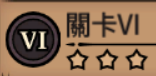
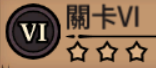
fix(nav): optimize sub-stage boss skull validation and trim six_stage template
- Refactor NavigationHandler._validate_boss_skull to log at DEBUG level with conf_first and conf_six, removing coordinate prints.

- Add _save_boss_skull_debug_artifact to annotate boss_skull and sub-stage boundary boxes on debug image under debug mode only.

- Trim top border from templates/stages/six_stage.png to eliminate drawer shadow interference, raising bottom-page match confidence from 0.79 to 0.97.

- Add unit tests in test_behavior_navigation covering debug logging and artifact persistence.

diff --git a/states/handlers/navigation.py b/states/handlers/navigation.py
@@ -76,11 +76,73 @@ class NavigationHandler(BaseStateHandler):
         """Resolve the active route before falling back to Tier 4 policy."""
         return config.get("sub_stage") or config.get("tier4_sub_stage")
 
+    @classmethod
+    def _save_boss_skull_debug_artifact(
+        cls,
+        screen_img,
+        pos: tuple[int, int] | None,
+        pos_first: tuple[int, int] | None,
+        pos_six: tuple[int, int] | None,
+        conf_first: float,
+        conf_six: float,
+        is_top: bool,
+        is_bottom: bool,
+        sub_stage_type: str,
+        accepted: bool,
+    ) -> None:
+        """在 debug 模式下繪製骷髏頭及頁面邊界標記並儲存診斷圖片。"""
+        if screen_img is None or getattr(screen_img, "size", 0) == 0:
+            return
+        try:
+            import cv2
+            import numpy as np
+            from utils.debug_artifacts import write_debug_image
+
+            if not isinstance(screen_img, np.ndarray):
+                return
+
+            canvas = screen_img.copy()
+            box_half = 30
+
+            # 1. 繪製 boss_skull 框框與語意
+            if pos:
+                bx, by = pos
+                color_skull = (0, 255, 0) if accepted else (0, 0, 255)
+                cv2.rectangle(canvas, (bx - box_half, by - box_half), (bx + box_half, by + box_half), color_skull, 2)
+                tag = f"[boss_skull] {'ACCEPTED' if accepted else 'REJECTED'}"
+                cv2.putText(canvas, tag, (bx - box_half, max(20, by - box_half - 6)), cv2.FONT_HERSHEY_SIMPLEX, 0.5, color_skull, 2)
+
+            # 2. 繪製 first_stage 框框與語意 (若有偵測到)
+            if pos_first:
+                fx, fy = pos_first
+                color_first = (255, 255, 0)
+                cv2.rectangle(canvas, (fx - box_half, fy - box_half), (fx + box_half, fy + box_half), color_first, 2)
+                cv2.putText(canvas, f"[first_stage] conf={conf_first:.2f}", (fx - box_half, max(20, fy - box_half - 6)), cv2.FONT_HERSHEY_SIMPLEX, 0.5, color_first, 2)
+
+            # 3. 繪製 six_stage 框框與語意 (若有偵測到)
+            if pos_six:
+                sx, sy = pos_six
+                color_six = (255, 0, 255)
+                cv2.rectangle(canvas, (sx - box_half, sy - box_half), (sx + box_half, sy + box_half), color_six, 2)
+                cv2.putText(canvas, f"[six_stage] conf={conf_six:.2f}", (sx - box_half, max(20, sy - box_half - 6)), cv2.FONT_HERSHEY_SIMPLEX, 0.5, color_six, 2)
+
+            # 4. 頂部狀態列橫幅
+            h, w = canvas.shape[:2]
+            cv2.rectangle(canvas, (0, 0), (w, 36), (30, 30, 30), -1)
+            banner = f"Target: {sub_stage_type} | conf_first: {conf_first:.4f}, conf_six: {conf_six:.4f} | top: {is_top}, bottom: {is_bottom} | {'PASS' if accepted else 'REJECT'}"
+            status_color = (0, 255, 0) if accepted else (0, 0, 255)
+            cv2.putText(canvas, banner, (15, 24), cv2.FONT_HERSHEY_SIMPLEX, 0.55, status_color, 2)
+
+            write_debug_image("debug_boss_skull_validation.png", canvas)
+        except Exception as exc:
+            logging.debug(f"[DebugArtifacts] Failed to write boss skull debug artifact: {exc}")
+
     def _validate_boss_skull(
         self,
         pos: tuple[int, int] | None,
         rect: dict,
         match_current_frame,
+        screen_img=None,
     ) -> tuple[int, int] | None:
         """
         驗證通用骷髏頭 (boss_skull) 是否符合當前子關卡目標 (middle vs final) 所在的頁面邊界。
@@ -95,26 +157,51 @@ class NavigationHandler(BaseStateHandler):
             return pos
 
         thresh_boundary = self.SUB_STAGE_BOUNDARY_THRESHOLD
-        pos_six, _ = match_current_frame("stages/six_stage.png", threshold=thresh_boundary) if os.path.exists(os.path.join("templates", "stages/six_stage.png")) else (None, 0.0)
-        pos_first, _ = match_current_frame("stages/first_stage.png", threshold=thresh_boundary) if os.path.exists(os.path.join("templates", "stages/first_stage.png")) else (None, 0.0)
+        pos_six, conf_six = match_current_frame("stages/six_stage.png", threshold=thresh_boundary) if os.path.exists(os.path.join("templates", "stages/six_stage.png")) else (None, 0.0)
+        pos_first, conf_first = match_current_frame("stages/first_stage.png", threshold=thresh_boundary) if os.path.exists(os.path.join("templates", "stages/first_stage.png")) else (None, 0.0)
 
         is_top_page = self._is_top_sub_stage_row(pos_first, rect)
         is_bottom_page = self._is_top_sub_stage_row(pos_six, rect)
 
+        is_debug_mode = logging.getLogger().isEnabledFor(logging.DEBUG) or bool(config.get("debug", False))
+
+        if is_debug_mode:
+            logging.debug(
+                f"🛡 [骷髏頭邊界判定] 目標: {sub_stage_type}, conf_first: {conf_first:.4f}, conf_six: {conf_six:.4f}"
+            )
+
         if sub_stage_type == "final" and (is_top_page or not is_bottom_page):
             page_desc = "頂部頁面" if is_top_page else "未確認為底部頁面"
-            logging.info(
-                f"🛡 [骷髏頭防誤判] 目標為 final 但畫面處於{page_desc} (is_top={is_top_page}, is_bottom={is_bottom_page})，"
-                f"忽略座標 ({pos[0]}, {pos[1]}) 之 Stage 5 中間小關骷髏頭。"
+            logging.debug(
+                f"🛡 [骷髏頭防誤判] 目標為 final 但畫面處於{page_desc} "
+                f"(conf_first: {conf_first:.4f}, conf_six: {conf_six:.4f})，"
+                f"忽略 Stage 5 中間小關骷髏頭,以儲存圖片:debug_boss_skull_validation.png。"
             )
+            if is_debug_mode:
+                self._save_boss_skull_debug_artifact(
+                    screen_img, pos, pos_first, pos_six, conf_first, conf_six,
+                    is_top_page, is_bottom_page, sub_stage_type, accepted=False
+                )
             return None
         elif sub_stage_type == "middle" and (is_bottom_page or not is_top_page):
             page_desc = "底部頁面" if is_bottom_page else "未確認為頂部頁面"
-            logging.info(
-                f"🛡 [骷髏頭防誤判] 目標為 middle 但畫面處於{page_desc} (is_top={is_top_page}, is_bottom={is_bottom_page})，"
-                f"忽略座標 ({pos[0]}, {pos[1]}) 之 Stage 10 魔王骷髏頭。"
+            logging.debug(
+                f"🛡 [骷髏頭防誤判] 目標為 middle 但畫面處於{page_desc} "
+                f"(conf_first: {conf_first:.4f}, conf_six: {conf_six:.4f})，"
+                f"忽略 Stage 10 魔王骷髏頭，以儲存圖片:debug_boss_skull_validation.png。"
             )
+            if is_debug_mode:
+                self._save_boss_skull_debug_artifact(
+                    screen_img, pos, pos_first, pos_six, conf_first, conf_six,
+                    is_top_page, is_bottom_page, sub_stage_type, accepted=False
+                )
             return None
+
+        if is_debug_mode:
+            self._save_boss_skull_debug_artifact(
+                screen_img, pos, pos_first, pos_six, conf_first, conf_six,
+                is_top_page, is_bottom_page, sub_stage_type, accepted=True
+            )
 
         return pos
 
@@ -261,6 +348,7 @@ class NavigationHandler(BaseStateHandler):
         target_sub_stage_btn: str,
         match_current_frame,
         filtered_nav_path: list[str],
+        screen_img=None,
     ) -> bool:
         """
         在普通關卡子關卡抽屜內，當目標子關卡尚未出現在畫面上時，執行自適應雙向滑動。
@@ -293,7 +381,7 @@ class NavigationHandler(BaseStateHandler):
                         if not self._is_top_sub_stage_row(pos_c, rect):
                             continue
                     elif "boss_skull" in cand or "skull" in cand:
-                        if not self._validate_boss_skull(pos_c, rect, match_current_frame):
+                        if not self._validate_boss_skull(pos_c, rect, match_current_frame, screen_img=screen_img):
                             continue
                     visible_sub_stages.append(cand)
 
@@ -996,7 +1084,7 @@ class NavigationHandler(BaseStateHandler):
                     pos_f, _ = match_current_frame(btn, threshold=thresh_btn)
                     if pos_f:
                         if "boss_skull" in btn or "skull" in btn:
-                            pos_f = self._validate_boss_skull(pos_f, rect, match_current_frame)
+                            pos_f = self._validate_boss_skull(pos_f, rect, match_current_frame, screen_img=screen_img)
                         if pos_f:
                             pos_final = pos_f
                             self.sub_stage_scroll_attempts = 0
@@ -1126,7 +1214,7 @@ class NavigationHandler(BaseStateHandler):
             pos, conf = match_current_frame(btn, threshold=thresh, brightness_threshold=b_thresh)
             if pos:
                 if "boss_skull" in btn or "skull" in btn:
-                    pos = self._validate_boss_skull(pos, rect, match_current_frame)
+                    pos = self._validate_boss_skull(pos, rect, match_current_frame, screen_img=screen_img)
             if pos:
                 if btn == "stages/stage_label.png":
                     if self._handle_sub_stage_scroll(
@@ -1134,6 +1222,7 @@ class NavigationHandler(BaseStateHandler):
                         target_final_btn,
                         match_current_frame,
                         filtered_nav_path,
+                        screen_img=screen_img,
                     ):
                         clicked_any = True
                         break

diff --git a/tests/test_behavior_navigation.py b/tests/test_behavior_navigation.py
@@ -773,5 +773,87 @@ class TestBehaviorNavigation(unittest.TestCase):
         self.assertFalse(NavigationHandler._is_top_sub_stage_row((600, 385), rect_720))
 
 
+    @patch("utils.debug_artifacts.write_debug_image")
+    @patch("os.path.exists")
+    def test_boss_skull_debug_artifact_and_logging_in_debug_mode(self, mock_exists, mock_write_debug):
+        """
+        驗證在 debug 模式下：
+        1. 僅輸出 DEBUG 級別日誌，包含 conf_first, conf_six，且不輸出 pos 座標
+        2. 在 debug 圖片上畫框框並呼叫 write_debug_image("debug_boss_skull_validation.png", ...)
+        """
+        import numpy as np
+        import logging
+        mock_exists.return_value = True
+        dummy_screen = np.zeros((1080, 1920, 3), dtype=np.uint8)
+
+        self.mock_machine.config = {
+            "type": "stage",
+            "sub_stage": "final",
+            "debug": True,
+        }
+
+        def fake_match(template, threshold=0.8):
+            if template == "stages/first_stage.png":
+                return (None, 0.45)
+            if template == "stages/six_stage.png":
+                return (None, 0.55)
+            return (None, 0.0)
+
+        with self.assertLogs(level="DEBUG") as log_cm:
+            result = self.handler._validate_boss_skull(
+                pos=(712, 701),
+                rect=self.rect,
+                match_current_frame=fake_match,
+                screen_img=dummy_screen,
+            )
+
+        # 由於 is_bottom 為 False，final 目標應被拒絕 (回傳 None)
+        self.assertIsNone(result)
+
+        # 驗證 write_debug_image 有被呼叫，且檔名正確
+        mock_write_debug.assert_called_once()
+        call_args = mock_write_debug.call_args
+        self.assertEqual(call_args[0][0], "debug_boss_skull_validation.png")
+
+        # 驗證日誌內容：包含 conf_first 與 conf_six，但不含 (712, 701) 座標
+        joined_logs = " ".join(log_cm.output)
+        self.assertIn("conf_first: 0.4500", joined_logs)
+        self.assertIn("conf_six: 0.5500", joined_logs)
+        self.assertNotIn("(712, 701)", joined_logs)
+
+    @patch("utils.debug_artifacts.write_debug_image")
+    @patch("os.path.exists")
+    def test_boss_skull_debug_artifact_not_called_when_not_debug(self, mock_exists, mock_write_debug):
+        """驗證非 debug 模式下不呼叫 write_debug_image 儲存除錯圖片。"""
+        import numpy as np
+        import logging
+        mock_exists.return_value = True
+        dummy_screen = np.zeros((1080, 1920, 3), dtype=np.uint8)
+
+        self.mock_machine.config = {
+            "type": "stage",
+            "sub_stage": "final",
+            "debug": False,
+        }
+
+        # 確保 root logger 不處於 DEBUG
+        prev_level = logging.getLogger().level
+        logging.getLogger().setLevel(logging.INFO)
+        try:
+            def fake_match(template, threshold=0.8):
+                return (None, 0.50)
+
+            result = self.handler._validate_boss_skull(
+                pos=(712, 701),
+                rect=self.rect,
+                match_current_frame=fake_match,
+                screen_img=dummy_screen,
+            )
+            self.assertIsNone(result)
+            mock_write_debug.assert_not_called()
+        finally:
+            logging.getLogger().setLevel(prev_level)
+
+
 if __name__ == "__main__":
     unittest.main()

diff --git a/docs/todos/future_work.md b/docs/todos/future_work.md
@@ -43,6 +43,8 @@ dengeon同理
 
 - [] state_machine_development 這個skill 再說甚麼 有沒有違反 [project_arch_greenfield_lite_v1.md](file;file:///e%3A/Side_Project/BlackfireCrusade_tool/docs/architecture/project_arch_greenfield_lite_v1.md) 的? 要同步
 
+- [] daily complete的條件寫好了 那現在defer判斷的依據有哪些
+
 - []向右滑動的時候明明一直做就好 且只要比對現在在的位置({}_after 和目標圖片)共兩章 但她卻每次都等很久 比對很多圖片
 ```
 
